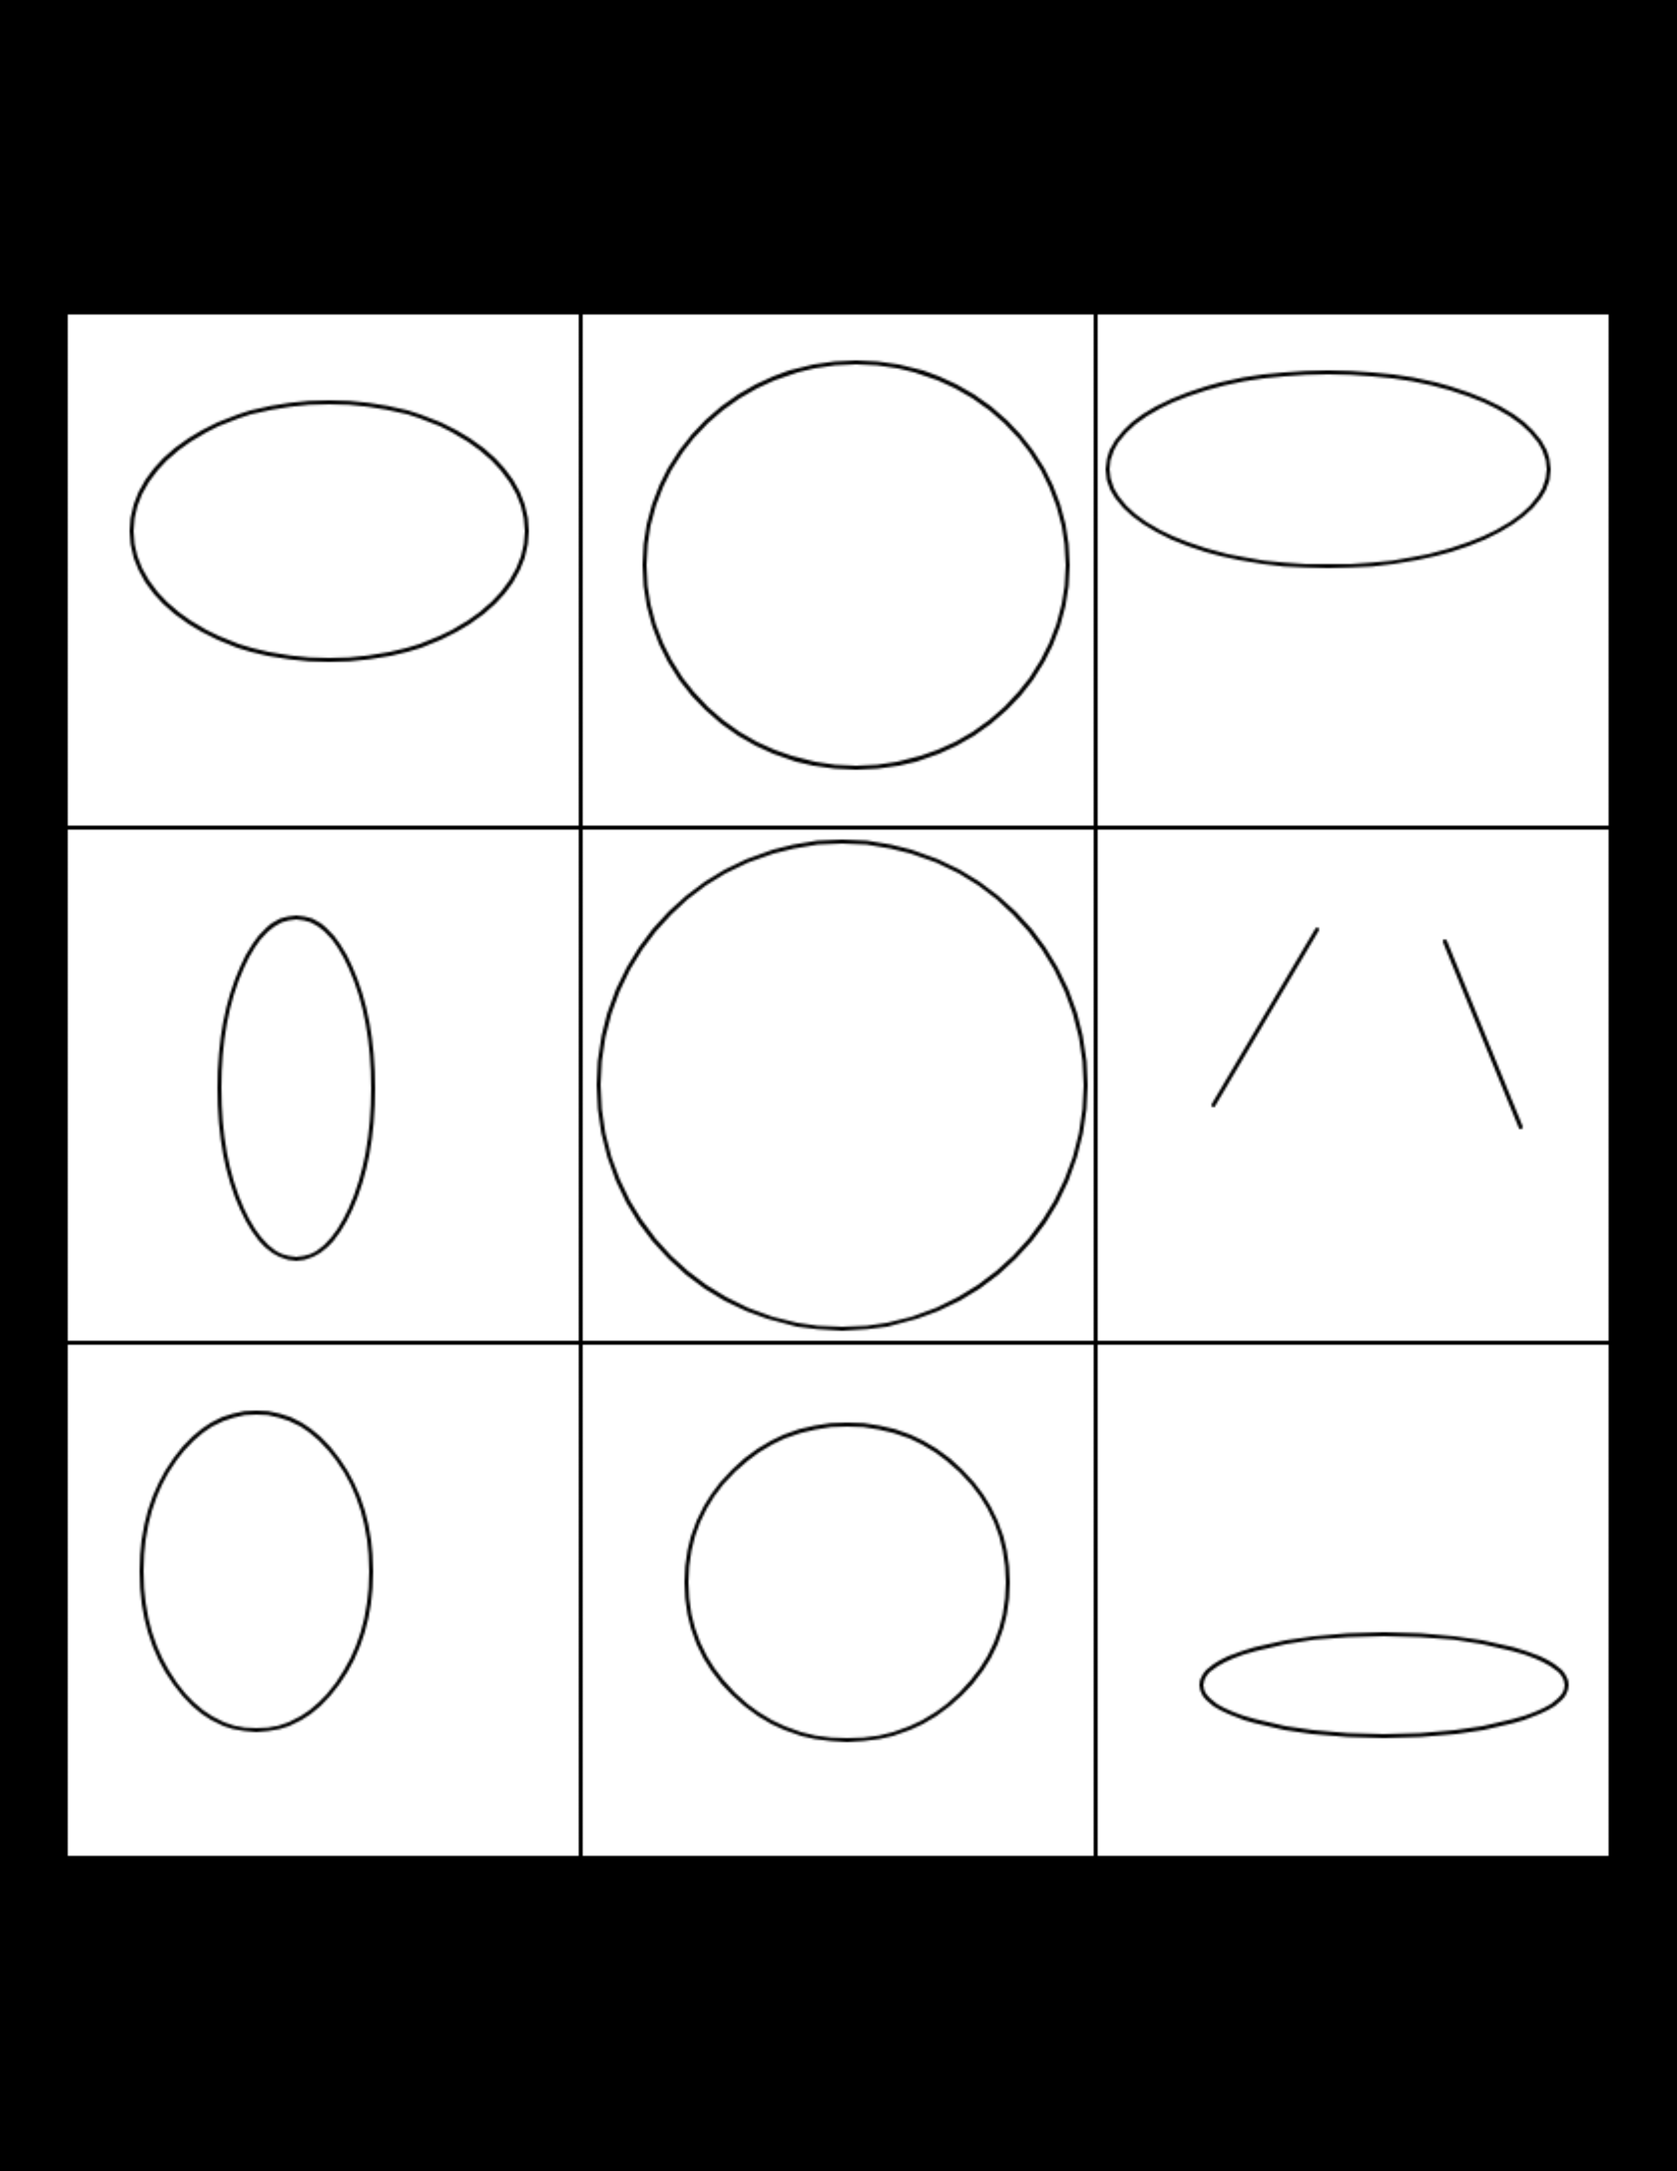
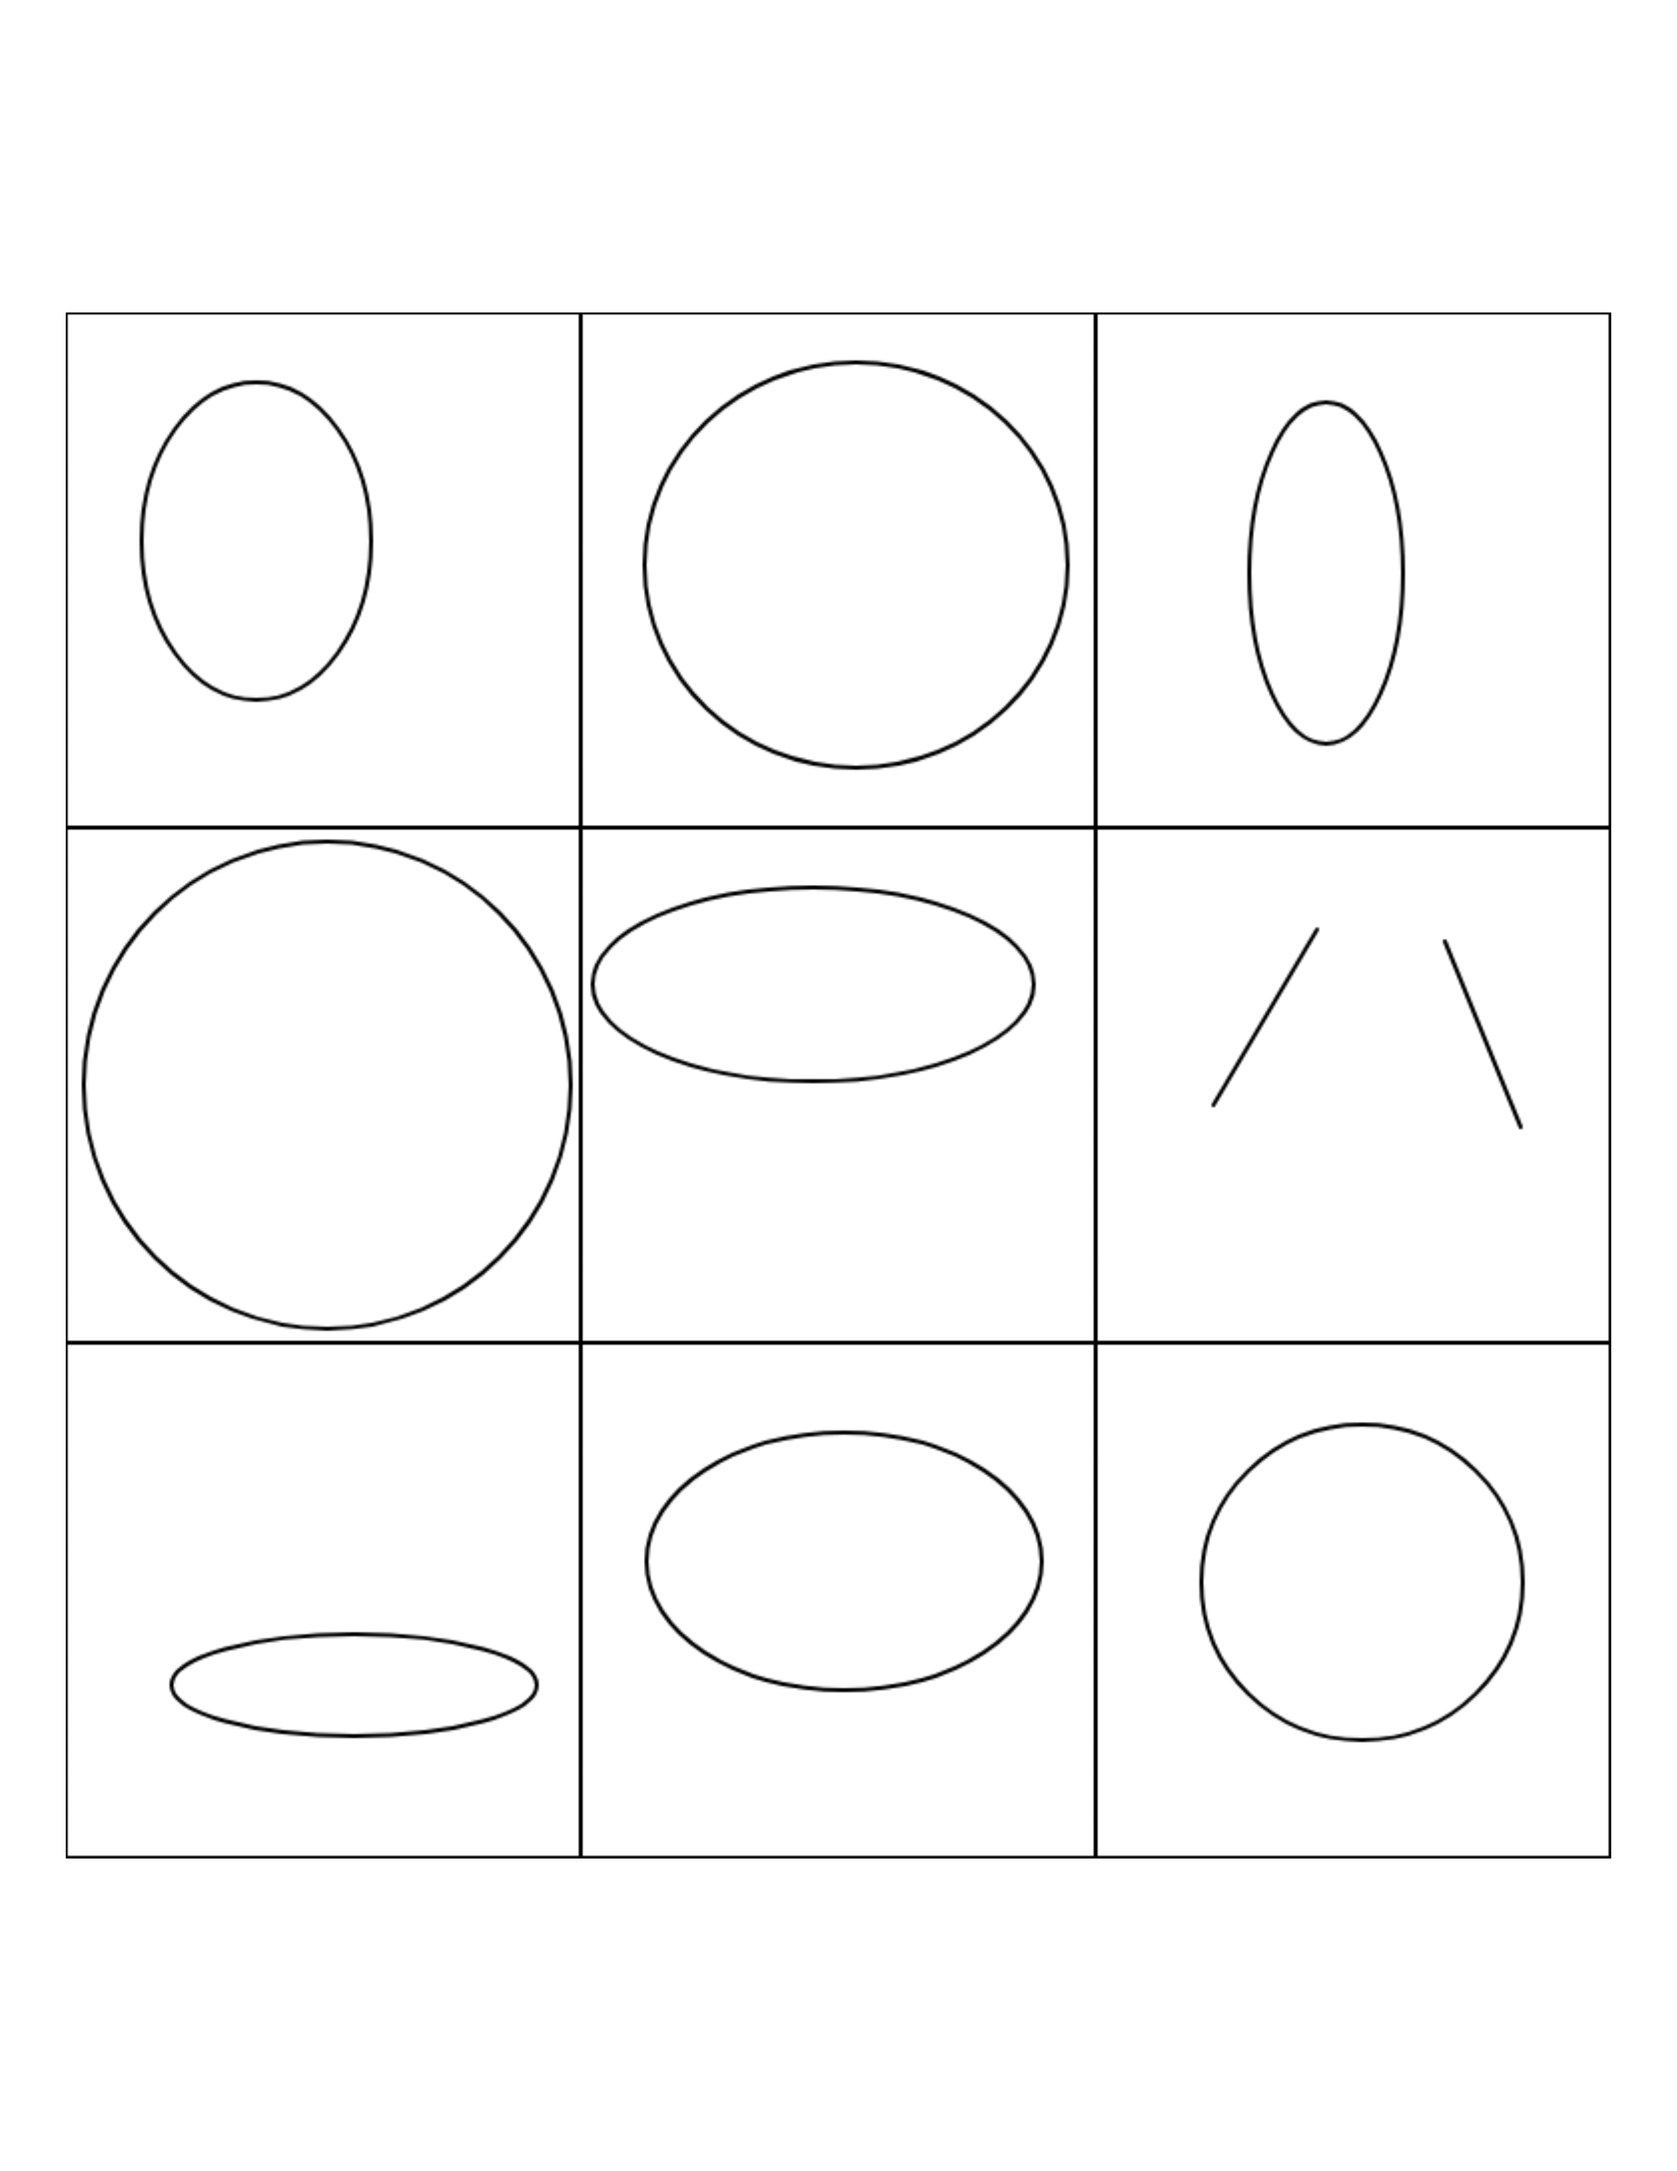
fixed black and white problem

diff --git a/imgmgmt.py b/imgmgmt.py
@@ -66,22 +66,22 @@ def cut_n_percent_of_image(image, percentage_to_cut):
     image_cover = None
     if where_to_cut == 0: # cut the left chunk
         new_x = int((image.shape[1] * percentage_to_cut) / 100)
-        image_cover = np.zeros((image.shape[0], new_x, 3), np.uint8)
+        image_cover = create_pure_white_img(image.shape[0], new_x)
         y_offset = 0
         x_offset = 0
     elif where_to_cut == 1: # cut the top chunk
         new_y = int((image.shape[0] * percentage_to_cut) / 100)
-        image_cover = np.zeros((new_y, image.shape[1], 3), np.uint8)
+        image_cover = create_pure_white_img(new_y, image.shape[1])
         y_offset = 0
         x_offset = 0
     elif where_to_cut == 2: # cut the right chunk
         new_x = int((image.shape[1] * percentage_to_cut) / 100)
-        image_cover = np.zeros((image.shape[0], new_x, 3), np.uint8)
+        image_cover = create_pure_white_img(image.shape[0], new_x)
         y_offset = 0
         x_offset = image.shape[1] - new_x
     else:                   # cut the bottom chunk
         new_y = int((image.shape[0] * percentage_to_cut) / 100)
-        image_cover = np.zeros((new_y, image.shape[1], 3), np.uint8)
+        image_cover = create_pure_white_img(new_y, image.shape[1])
         y_offset = image.shape[0] - new_y
         x_offset = 0
     # print("image shape: ", image.shape)
@@ -91,6 +91,8 @@ def cut_n_percent_of_image(image, percentage_to_cut):
     image[y_offset:y_offset + image_cover.shape[0], x_offset:x_offset + image_cover.shape[1]] = image_cover
     return image
 
+def create_pure_white_img(y, x):
+    return np.ones((y, x, 3), np.uint8) * 255
 
 ###############################################################
 
@@ -152,7 +154,7 @@ def create_full_image(images, space_on_page):
             y_offset = y * single_image_len
             target_image_grid[y_offset:y_offset + single_image_len, x_offset:x_offset + single_image_len] = img
 
-    full_image = np.zeros((LENGTH_OF_PAGE_IN_PIXELS, WIDTH_OF_PAGE_IN_PIXELS, 3), np.uint8)
+    full_image = create_pure_white_img(LENGTH_OF_PAGE_IN_PIXELS, WIDTH_OF_PAGE_IN_PIXELS)
     x_offset = int((WIDTH_OF_PAGE_IN_PIXELS - image_frame_size) / 2)
     y_offset = int((LENGTH_OF_PAGE_IN_PIXELS - image_frame_size) / 2)
     full_image[y_offset:y_offset + target_image_grid.shape[0], x_offset:x_offset + target_image_grid.shape[1]] = target_image_grid
